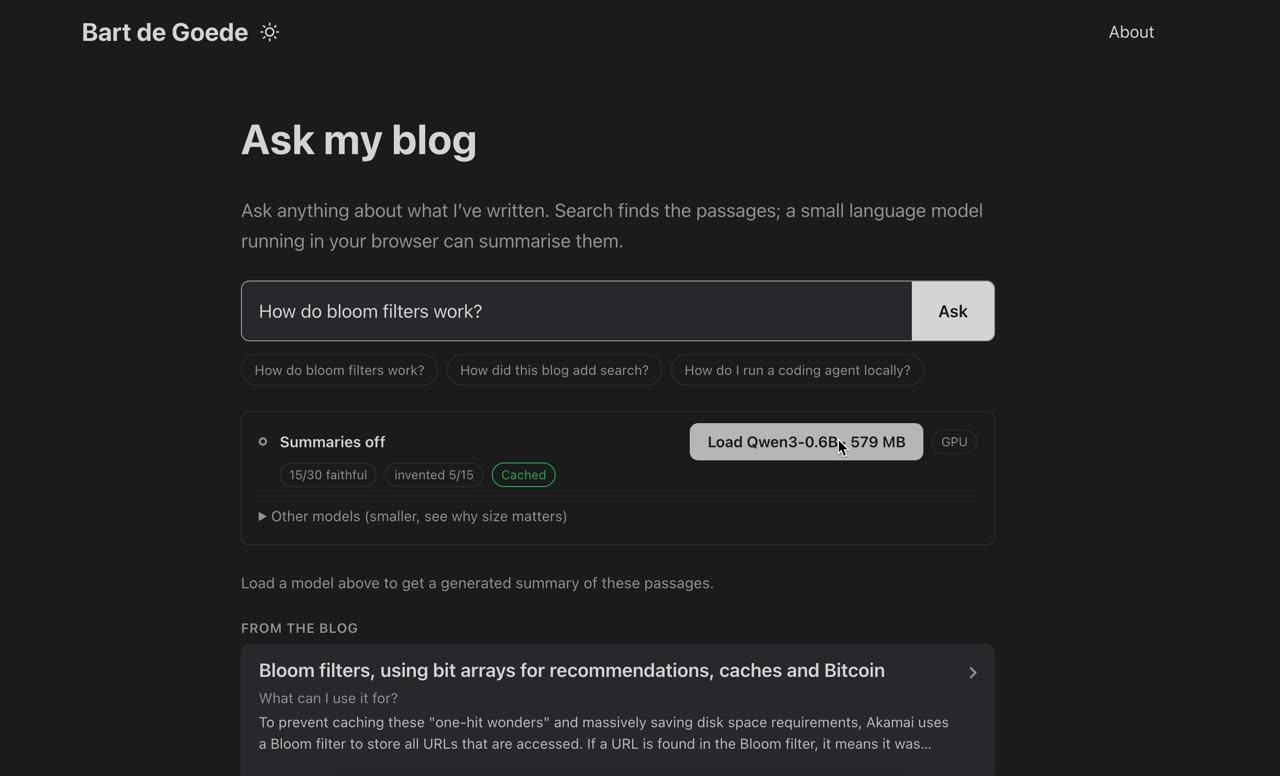
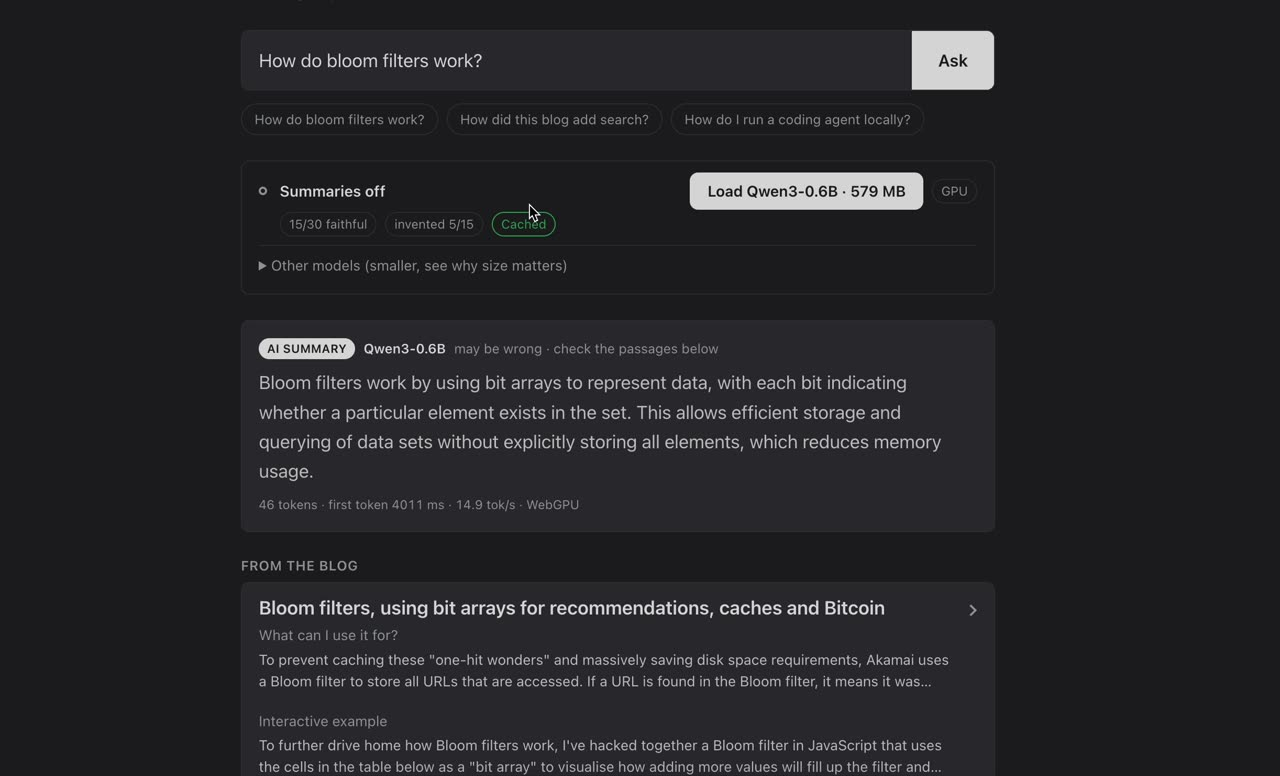
Draft post: Running RAG with a (small) language model in the browser

diff --git a/assets/css/extended/custom.css b/assets/css/extended/custom.css
@@ -724,11 +724,11 @@ input[type="search"] {
 /* Series colours: validated categorical slots 1-2 (dataviz reference palette), stepped for dark. */
 .viz { --viz-s1: #2a78d6; --viz-s2: #eb6834; width: 100%; height: auto; display: block; font-family: inherit; }
 .dark .viz { --viz-s1: #3987e5; --viz-s2: #d95926; }
-.viz text { font-size: 12px; }
+.viz text { font-size: 14px; }
 .viz .viz-tick { fill: var(--secondary); font-variant-numeric: tabular-nums; }
-.viz .viz-axis { fill: var(--secondary); font-size: 12px; }
-.viz .viz-label { fill: var(--primary); font-size: 12px; }
-.viz .viz-note { fill: var(--secondary); font-size: 11px; font-style: italic; }
+.viz .viz-axis { fill: var(--secondary); font-size: 14px; }
+.viz .viz-label { fill: var(--primary); font-size: 14px; }
+.viz .viz-note { fill: var(--secondary); font-size: 13px; font-style: italic; }
 .viz .viz-grid { stroke: var(--border); stroke-width: 1; }
 .viz .viz-baseline { stroke: var(--secondary); stroke-width: 1; opacity: 0.6; }
 .viz .viz-sep { stroke: var(--secondary); stroke-width: 1; stroke-dasharray: 3 4; opacity: 0.6; }

diff --git a/scripts/ask_eval/charts.py b/scripts/ask_eval/charts.py
@@ -153,7 +153,7 @@ def quality_vs_size(judgements, cands) -> str:
 
 
 def length_chart(judged_len) -> str:
-    w, h, left, right, top, bottom = 680, 340, 64, 150, 36, 56
+    w, h, left, right, top, bottom = 680, 340, 64, 180, 36, 56
     ns = (2, 4, 6)
     series = (("gemma4-e2b", "Gemma 4 E2B", "viz-s1"), ("qwen3-0.6b", "Qwen3-0.6B", "viz-s2"))
 

diff --git a/content/post/2026-10-12-rag-with-a-small-language-model-in-the-browser.md b/content/post/2026-10-12-rag-with-a-small-language-model-in-the-browser.md
@@ -1,0 +1,125 @@
+---
+title: "Running RAG with a (small) language model in the browser"
+date: 2026-10-12T21:00:00-04:00
+draft: true
+slug: "rag-with-a-small-language-model-in-the-browser"
+categories: ["machine learning", "ai", "search", "javascript", "hugo"]
+keywords: ["rag", "retrieval augmented generation", "small language models", "transformers.js", "webgpu", "wasm", "qwen3", "gemma", "llm evaluation", "static site", "browser"]
+description: "My blog's search already finds the right passages in your browser. I tried letting a small language model, also running in your browser, summarise them, and measured how often it tells the truth."
+---
+
+A few weeks ago I came across [MicroLLM lab](https://stateofutopia.com/experiments/microllmlab/), a page that downloads small language models (25 to 360 million parameters) into your browser and lets you chat with and benchmark them on your own GPU[^petitgpt]. No server, no API key, no account. It's a lovely demo, and it got me thinking about the [semantic search I added to this blog](/semantic-search-in-your-browser/) earlier this year: that already finds the right passages for a question, entirely in the browser, from a 4 MB lookup table. What if a tiny model, also in the browser, read those passages and answered the question?
+
+So I built that: [ask my blog](/ask/). Search finds the four most relevant passages, and a small language model running in your browser summarises them in two sentences. Nothing you type leaves your machine. And because "a small model summarises things" is exactly the sort of sentence that hides a lot of made-up nonsense, I measured how often it's actually faithful to what I wrote. The answer turned out to be the most interesting part.<!-- more -->
+
+{{< video name="ask-webgpu" caption="Ask my blog on WebGPU: Qwen3-0.6B (already cached) answers, then switching to SmolLM2-360M downloads it." >}}
+
+## How it works
+
+The page is retrieval-augmented generation (RAG) with every piece running client-side:
+
+1. **Retrieve.** Your question goes through the same static-embedding search as the homepage, but instead of rolling results up to posts, it keeps the four best-scoring *passages*.
+2. **Gate.** If the best passage scores below a threshold, the model isn't called at all and the page says it couldn't find this on the blog. More on why that only half works below.
+3. **Prompt.** The passages, numbered, plus a system prompt: answer in at most two sentences, use only these passages, say so if they don't answer the question.
+4. **Generate.** A Web Worker runs the model with [transformers.js](https://huggingface.co/docs/transformers.js) on WebGPU, or on the CPU via WebAssembly if your browser doesn't have WebGPU, and streams the answer into the page. It stops as soon as it has two complete sentences.
+
+The passages are shown first, as cards, and the summary sits above them with a label that says it may be wrong. You can search without loading a model at all; you just get the passages. Loading one is an explicit click, because it means downloading a few hundred megabytes from Hugging Face (once; your browser keeps it).
+
+![The download indicator: one square per 4 MB of model](/img/2026-10-12-rag-with-a-small-language-model-in-the-browser/download-blocks.jpg)
+
+Each square is about 4 MB of the download, so a bigger model has visibly more to fill. That's the fun bit. The rest of this post is about the less fun bit.
+
+## Which model?
+
+I wanted something that would be a reasonable click for a reader: a few hundred megabytes, not gigabytes. The candidates that have browser-ready (ONNX) builds were SmolLM2 (135M and 360M parameters), Gemma 3 270M, LFM2.5-350M, Qwen2.5-0.5B and Qwen3-0.6B. For comparison I added two references that would never ship on the page: Gemma 4 E2B, the smallest of Google's new Gemma 4 models at a 3.1 GB download, and Claude Haiku 5.5 through the API, the "just pay someone" option.
+
+One surprise before anything ran: for several of these models the "4-bit" (q4) build is *bigger* than the 4-bit-with-16-bit-floats (q4f16) one, because the q4 export keeps the embedding table in full 32-bit precision. SmolLM2-360M is 390 MB as q4 and 275 MB as q4f16, with identical output. Everything below uses q4f16.
+
+## The eval
+
+I reused the 30 questions from the [semantic search eval](/semantic-search-in-your-browser/), rephrased as things a reader would actually ask ("How did the blog use Lunr to add search?"), and added 15 questions the blog *doesn't* answer. A few of those are far off ("How do I bake sourdough bread at home?"), but most are near-misses designed to tempt a model: "Which GPU should I buy to run Llama 70B locally?", "How does BM25 ranking improve on TF-IDF?", "How do I fine-tune Kokoro to speak in my own voice?" The blog talks *around* all of these without answering them.
+
+Every model got the same four passages and the same prompt, and Claude Opus 5.5 graded each answer against those passages as **faithful** (every claim is in the passages), **unsupported** (at least one claim isn't, even if it happens to be true) or a **non-answer**. I labelled 20 of those grades myself without seeing the judge's verdict; we agreed on 16 of 20 about whether an answer was faithful[^judge]. Claude also generated the question set, which I reviewed.
+
+{{< svg "quality-vs-size.svg" "Faithful answers out of 30 answerable questions, against download size. Hover a dot for details." >}}
+
+| model | download | faithful | made up an answer the blog doesn't have |
+|---|---|---|---|
+| SmolLM2-135M | 120 MB | 0/30 | 14/15 |
+| LFM2.5-350M | 258 MB | 2/30 | 14/15 |
+| SmolLM2-360M | 275 MB | 3/30 | 15/15 |
+| Gemma 3 270M | 293 MB | 3/30 | 13/15 |
+| Qwen3-0.6B | 579 MB | 15/30 | 5/15 |
+| Gemma 4 E2B | 3.1 GB | 28/30 | 0/15 |
+| Claude Haiku 5.5 (API) | n/a | 27/30 | 1/15 |
+
+Nothing under 350 MB is usable for this. They aren't slightly worse; they're faithful at most three times out of thirty, and they'll confidently answer almost any question you throw at them. Asked which GPU to buy for Llama 70B, with four passages about embeddings and a coding agent on a MacBook:
+
+> "...the best option to run Llama 70B locally is likely to be a NVIDIA GTX 960 or GTX 970. [...] They also offer high memory bandwidth, making them ideal for handling large amounts of data such as the 6.4 million documents required by Llama 70B." (SmolLM2-360M)
+
+> "...a high-performance graphics card (GPU) such as a NVIDIA A100 series (e.g., RTX 3090, RTX 3080, 3070, 3080, 3070M, 3080M)" (Gemma 3 270M)
+
+> "...popular options include RTX 3090, RTR 5900, or newer generations like TensorRT 60+ for improved compute efficiency." (LFM2.5-350M)
+
+Gemma 4 E2B, for the record: "The provided passages do not contain information about which GPU you should buy to run Llama 70B locally." Which is the entire job.
+
+Even on questions the blog *does* answer, the small models garble things. Here's LFM2.5 on the most basic question about my [Bloom filter post](/bloom-filters-bit-arrays-recommendations-caches-bitcoin/), at 73 tokens per second on my laptop's GPU:
+
+![LFM2.5-350M explaining Bloom filters as a hash table with "true negatives"](/img/2026-10-12-rag-with-a-small-language-model-in-the-browser/lfm-bloom-answer.jpg)
+
+Fast, fluent, and wrong: a Bloom filter isn't a hash table, and the whole point of one is that it *can't* give you false negatives. The passages right underneath say exactly that.
+
+Qwen3-0.6B is the interesting one. At 579 MB it's over the budget I'd set myself, and it's faithful half the time, which is a coin flip. But it's the smallest model that's a coin flip rather than a guaranteed miss, so that's what [ask my blog](/ask/) loads by default. The three smaller models are still on the page, labelled as demonstrators, so you can see for yourself what a 300 MB model does with your question[^webgpu-only].
+
+## Small models loop
+
+The first time I ran the small models, most of their answers weren't wrong so much as stuck. SmolLM2-135M, asked how to add OpenSearch support to a website:
+
+> "1. Custom Search: Search from your URL bar 2. Search from your URL bar 3. Search from your URL bar 4. Search from your URL bar [1] Custom Search: Search from your URL bar..."
+
+Gemma 3 270M answered the GPU question with `I'5555555555555555555555...` until it ran out of tokens. That's what happens when you always pick the single most likely next token and nothing discourages repeating it: tiny models fall into a groove and can't get out. A repetition penalty (1.15, which slightly discourages tokens the model has already seen) fixes the loops. It doesn't fix the faithfulness; the models just write longer, more varied nonsense instead. All the numbers above are with the penalty on.
+
+## The gate catches the obvious ones
+
+The relevance gate seemed like the cheap fix for made-up answers: if search can't find anything relevant, don't ask the model. It works for the far-off questions; "How do I bake sourdough bread?" scores 0.25 against the best passage on the blog, and a threshold of 0.45 stops it (which is good, because Gemma 3's answer was a bread recipe). But the near-misses score 0.54 to 0.63, *higher* than several questions the blog actually answers, because they land on posts about the same topic. To block those, the threshold would have to reject 13 of the 30 real questions too.
+
+So the gate only catches the obviously off-topic questions, and the rest is on the model. That's the real reason size matters here: Gemma 4 and Haiku say "the passages don't cover this", and the small models never do.
+
+## Is it worth renting a GPU, or paying for an API?
+
+The 3.1 GB Gemma 4 E2B matches Claude Haiku on quality, so what would it cost to run it for readers instead of making them download it? The cheapest sensible cloud GPU for it, an NVIDIA L4 on Google Cloud, is about $0.71 an hour[^gpu], or **$516 a month** to keep running. This blog gets a few hundred readers a month. Even if every one of them asked a question, that's around a dollar per question.
+
+Haiku answered all 45 eval questions for **$0.006**. At 500 questions a month it would cost about seven cents.
+
+So: renting a GPU makes no sense at blog scale, paying for an API is practically free *and* as good as the best local model, and running in the browser is free for me but costs you a download and, with today's small models, a lot of accuracy. The honest pitch for the browser version is privacy and the fact that it works at all, not quality.
+
+## Shorter is safer
+
+If two sentences from Qwen3 are only right half the time, would letting it say more help? I ran Qwen3-0.6B and Gemma 4 E2B again, allowing two, four or six sentences.
+
+{{< svg "faithfulness-vs-length.svg" "Faithful answers out of 30 when the model may use 2, 4 or 6 sentences." >}}
+
+Both get *less* faithful with more room, but the small model falls off a cliff: Qwen3 goes from 15 to 9 to 5 faithful answers out of 30. Every extra sentence is another chance to say something the passages don't. At six sentences it stops declining the GPU question altogether and helpfully summarises every passage instead, before concluding that "the answer would depend on whether the user needs a high-performance GPU or a standard one."
+
+Gemma 4 slips too (28, 26, 24), but it barely uses the extra room (about 2.8 sentences when allowed 6) and never makes up an answer to a question the blog doesn't cover. The smaller the model, the shorter the leash; the page stops at two sentences.
+
+## Things I didn't expect
+
+- **The CPU path is 15 times slower.** On WebGPU, Qwen3 generates about 20 tokens a second. Without WebGPU, transformers.js falls back to WebAssembly, which on GitHub Pages runs on a single thread: multi-threaded WebAssembly needs two HTTP headers (COOP and COEP) that GitHub Pages can't send. That's 1.2 tokens a second, or 30 to 60 seconds per answer. The page warns you before you load a model.
+- **Two of the small models can't run on the CPU at all.** Gemma 3 270M and LFM2.5's q4f16 builds use a quantized-embedding operation that ONNX Runtime's WebAssembly backend has no implementation for. On a browser without WebGPU, they're greyed out.
+- **"Stop" doesn't reach a busy CPU worker.** On WebGPU the worker yields while it waits for the GPU, so a stop message gets through. On single-threaded WebAssembly it never yields, so the stop arrives after the answer is finished. The page now kills the worker and reloads the model from the browser cache instead, which takes a couple of seconds.
+- **Small models cite their sources anyway.** Qwen3 likes to write "as described in [1]". I'd planned to strip those, but they're actually useful, so they now link to the matching source card.
+
+## What's next
+
+The obvious next step is making the small models less bad at this one job. A 300 MB model doesn't need to know everything; it needs to read four passages and either summarise them or say they don't answer the question. That sounds like a fine-tuning problem, and a follow-up post.
+
+The other idea is the homepage search box: if you've already loaded a model on [ask my blog](/ask/), the homepage could quietly use it to improve search, without ever downloading anything on its own. In the meantime: [ask my blog something](/ask/), and check the passages before you believe the summary.
+
+[^petitgpt]: It was in turn inspired by [petitgpt](https://github.com/yangqi0/petitgpt). I didn't reuse any MicroLLM lab code (the repository doesn't say what license it's under); the page here is built on transformers.js directly.
+
+[^judge]: Most of the remaining disagreement was about *which kind* of bad an answer was (I'd call rambling nonsense a non-answer; the judge calls it unsupported if it contains a single invented claim). On the faithful-or-not question the judge was stricter than me twice and more lenient twice. The gap between the small models and the rest is far bigger than that noise.
+
+[^webgpu-only]: Two of them only on WebGPU; see the CPU caveats further down.
+
+[^gpu]: A `g2-standard-4` instance (one L4) in us-central1, on demand, via [computeprices.com](https://computeprices.com/providers/google/gpus/l4) on 12 October 2026.
